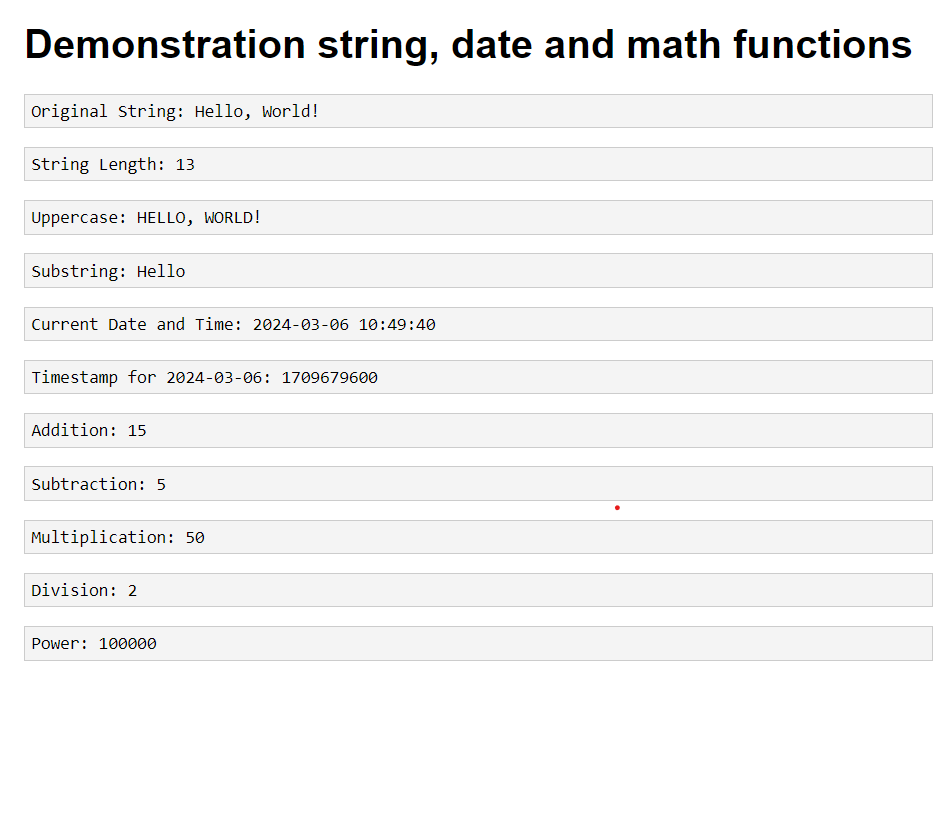
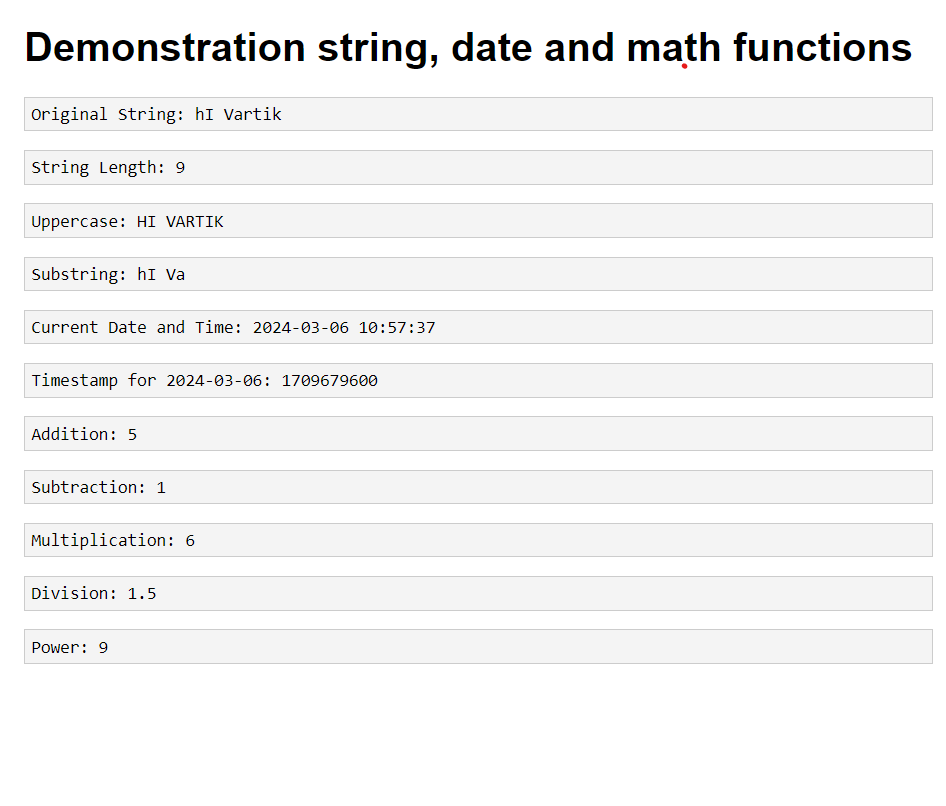
07 added

diff --git a/07_student_registration_form/index.html b/07_student_registration_form/index.html
@@ -1,0 +1,70 @@
+<!-- 7. Create a student registration form using a text box, check box, radio button, select, and submit button. And display user-inserted value on the new PHP page -->
+<html lang="en">
+<head>
+  <meta charset="UTF-8">
+  <meta name="viewport" content="width=device-width, initial-scale=1.0">
+  <title>Student Registration Form</title>
+  <style>
+    body {
+      font-family: Arial, sans-serif;
+      margin: 20px;
+    }
+    table {
+      width: 50%;
+      border-collapse: collapse;
+      margin-top: 20px;
+    }
+    th, td {
+      padding: 10px;
+      border: 1px solid #ddd;
+      text-align: left;
+    }
+  </style>
+</head>
+<body>
+<center>
+  
+    <form action="data.php" method="post">
+      <table>
+        <tr>
+          <th><label for="name">Name:</label></th>
+          <td><input type="text" name="name" id="name" required></td>
+        </tr>
+        <tr>
+          <th><label>Gender:</label></th>
+          <td>
+            <input type="radio" name="gender" value="male" id="male" required>
+            <label for="male">Male</label>
+            <input type="radio" name="gender" value="female" id="female" required>
+            <label for="female">Female</label>
+          </td>
+        </tr>
+        <tr>
+          <th><label for="course">Select Course:</label></th>
+          <td>
+            <select name="course" id="course" required>
+              <option value="math">Math</option>
+              <option value="science">Science</option>
+              <option value="history">History</option>
+            </select>
+          </td>
+        </tr>
+        <tr>
+          <th><label>Choose Clubs:</label></th>
+          <td>
+            <input type="checkbox" name="clubs[]" value="sports" id="sports">
+            <label for="sports">Sports</label>
+            <input type="checkbox" name="clubs[]" value="music" id="music">
+            <label for="music">Music</label>
+            <input type="checkbox" name="clubs[]" value="art" id="art">
+            <label for="art">Art</label>
+          </td>
+        </tr>
+      </table>
+  
+      <input type="submit" value="Submit">
+    </form>
+</center>
+
+</body>
+</html>

diff --git a/07_student_registration_form/data.php b/07_student_registration_form/data.php
@@ -1,0 +1,46 @@
+<html lang="en">
+<head>
+  <meta charset="UTF-8">
+  <meta name="viewport" content="width=device-width, initial-scale=1.0">
+  <title>Form Data</title>
+  <style>
+    body {
+      font-family: Arial, sans-serif;
+      margin: 20px;
+    }
+    table {
+      width: 50%;
+      border-collapse: collapse;
+      margin-top: 20px;
+    }
+    th, td {
+      padding: 10px;
+      border: 1px solid #ddd;
+      text-align: left;
+    }
+  </style>
+</head>
+<body>
+
+  <center>
+    <?php
+      if ($_SERVER["REQUEST_METHOD"] == "POST") {
+        // Sanitize and display form data
+        $name = htmlspecialchars($_POST["name"]);
+        $gender = htmlspecialchars($_POST["gender"]);
+        $course = htmlspecialchars($_POST["course"]);
+        $clubs = isset($_POST["clubs"]) ? implode(", ", $_POST["clubs"]) : "";
+        // Display the form data in a table
+        echo "<h2>Form Data:</h2>";
+        echo "<table>";
+        echo "<tr><th>Name</th><td>$name</td></tr>";
+        echo "<tr><th>Gender</th><td>$gender</td></tr>";
+        echo "<tr><th>Course</th><td>$course</td></tr>";
+        echo "<tr><th>Clubs</th><td>$clubs</td></tr>";
+        echo "</table>";
+      }
+    ?>
+  </center>
+
+</body>
+</html>

diff --git a/06_string_date_math_functions/index.php b/06_string_date_math_functions/index.php
@@ -1,13 +1,7 @@
 <!-- 6. Write a PHP script to demonstrate string, date and math functions. -->
-
-
-
-<!DOCTYPE html>
 <html lang="en">
 <head>
-    <meta charset="UTF-8">
-    <meta name="viewport" content="width=device-width, initial-scale=1.0">
-    <title>PHP Script Demo</title>
+   
     <style>
         body {
             font-family: Arial, sans-serif;
@@ -31,7 +25,7 @@
 <?php
 
 // String functions
-$string = "Hello, World!";
+$string = "hI Vartik";
 echo "<code>Original String: $string</code>";
 
 // String length

diff --git a/07_student_registration_form/README.md b/07_student_registration_form/README.md
@@ -1,0 +1,137 @@
+# Aim
+7. Create a student registration form using a text box, check box, radio button, select, and submit button. And display user-inserted value on the new PHP page
+## Code
+
+### index.html
+
+```html
+<html lang="en">
+<head>
+  <meta charset="UTF-8">
+  <meta name="viewport" content="width=device-width, initial-scale=1.0">
+  <title>Student Registration Form</title>
+  <style>
+    body {
+      font-family: Arial, sans-serif;
+      margin: 20px;
+    }
+    table {
+      width: 50%;
+      border-collapse: collapse;
+      margin-top: 20px;
+    }
+    th, td {
+      padding: 10px;
+      border: 1px solid #ddd;
+      text-align: left;
+    }
+  </style>
+</head>
+<body>
+
+  <form action="data.php" method="post">
+    <table>
+      <tr>
+        <th><label for="name">Name:</label></th>
+        <td><input type="text" name="name" id="name" required></td>
+      </tr>
+      <tr>
+        <th><label>Gender:</label></th>
+        <td>
+          <input type="radio" name="gender" value="male" id="male" required>
+          <label for="male">Male</label>
+          <input type="radio" name="gender" value="female" id="female" required>
+          <label for="female">Female</label>
+        </td>
+      </tr>
+      <tr>
+        <th><label for="course">Select Course:</label></th>
+        <td>
+          <select name="course" id="course" required>
+            <option value="math">Math</option>
+            <option value="science">Science</option>
+            <option value="history">History</option>
+          </select>
+        </td>
+      </tr>
+      <tr>
+        <th><label>Choose Clubs:</label></th>
+        <td>
+          <input type="checkbox" name="clubs[]" value="sports" id="sports">
+          <label for="sports">Sports</label>
+          <input type="checkbox" name="clubs[]" value="music" id="music">
+          <label for="music">Music</label>
+          <input type="checkbox" name="clubs[]" value="art" id="art">
+          <label for="art">Art</label>
+        </td>
+      </tr>
+    </table>
+    
+    <input type="submit" value="Submit">
+  </form>
+
+</body>
+</html>
+
+
+```
+
+
+### data.php
+
+```html
+<html lang="en">
+<head>
+  <meta charset="UTF-8">
+  <meta name="viewport" content="width=device-width, initial-scale=1.0">
+  <title>Form Data</title>
+  <style>
+    body {
+      font-family: Arial, sans-serif;
+      margin: 20px;
+    }
+    table {
+      width: 50%;
+      border-collapse: collapse;
+      margin-top: 20px;
+    }
+    th, td {
+      padding: 10px;
+      border: 1px solid #ddd;
+      text-align: left;
+    }
+  </style>
+</head>
+<body>
+
+  <?php
+    if ($_SERVER["REQUEST_METHOD"] == "POST") {
+      // Sanitize and display form data
+      $name = htmlspecialchars($_POST["name"]);
+      $gender = htmlspecialchars($_POST["gender"]);
+      $course = htmlspecialchars($_POST["course"]);
+      $clubs = isset($_POST["clubs"]) ? implode(", ", $_POST["clubs"]) : "";
+
+      // Display the form data in a table
+      echo "<h2>Form Data:</h2>";
+      echo "<table>";
+      echo "<tr><th>Name</th><td>$name</td></tr>";
+      echo "<tr><th>Gender</th><td>$gender</td></tr>";
+      echo "<tr><th>Course</th><td>$course</td></tr>";
+      echo "<tr><th>Clubs</th><td>$clubs</td></tr>";
+      echo "</table>";
+    }
+  ?>
+
+</body>
+</html>
+
+```
+
+## Output
+
+### index.html
+![Output](1.png)
+
+### data.php
+![Output](2.png)

diff --git a/README.md b/README.md
@@ -7,7 +7,7 @@ Welcome to the Vocational Web Development Practical for BCA final year. Below ar
 3. [Write a PHP Script to input marks, generate results, and display grades.](https://github.com/VartikAnand/vocational-web-development-Practical/tree/main/03_input_marks_generate_results)
 4. [Write a PHP Script for addition of two 2x2 matrices.](https://github.com/VartikAnand/vocational-web-development-Practical/tree/main/04_addition_of_matrices)
 5. [Write a PHP script to obtain the factorial of a number using the function.](https://github.com/VartikAnand/vocational-web-development-Practical/tree/main/05_factorial_of_number)
-6. [Write a PHP script to demonstrate string, date, and math functions.](6_string_date_math_functions.php)
+6. [Write a PHP script to demonstrate string, date, and math functions.](https://github.com/VartikAnand/vocational-web-development-Practical/tree/main/06_string_date_math_functions)
 7. [Create a student registration form using a text box, check box, radio button, select, and submit button. And display user-inserted value on the new PHP page.](7_student_registration_form.php)
 8. [Write two different PHP scripts to demonstrate passing variables through a URL.](8_passing_variables_through_url.php)
 9. [Write two different PHP scripts to demonstrate passing variables with sessions.](9_passing_variables_with_sessions.php)
